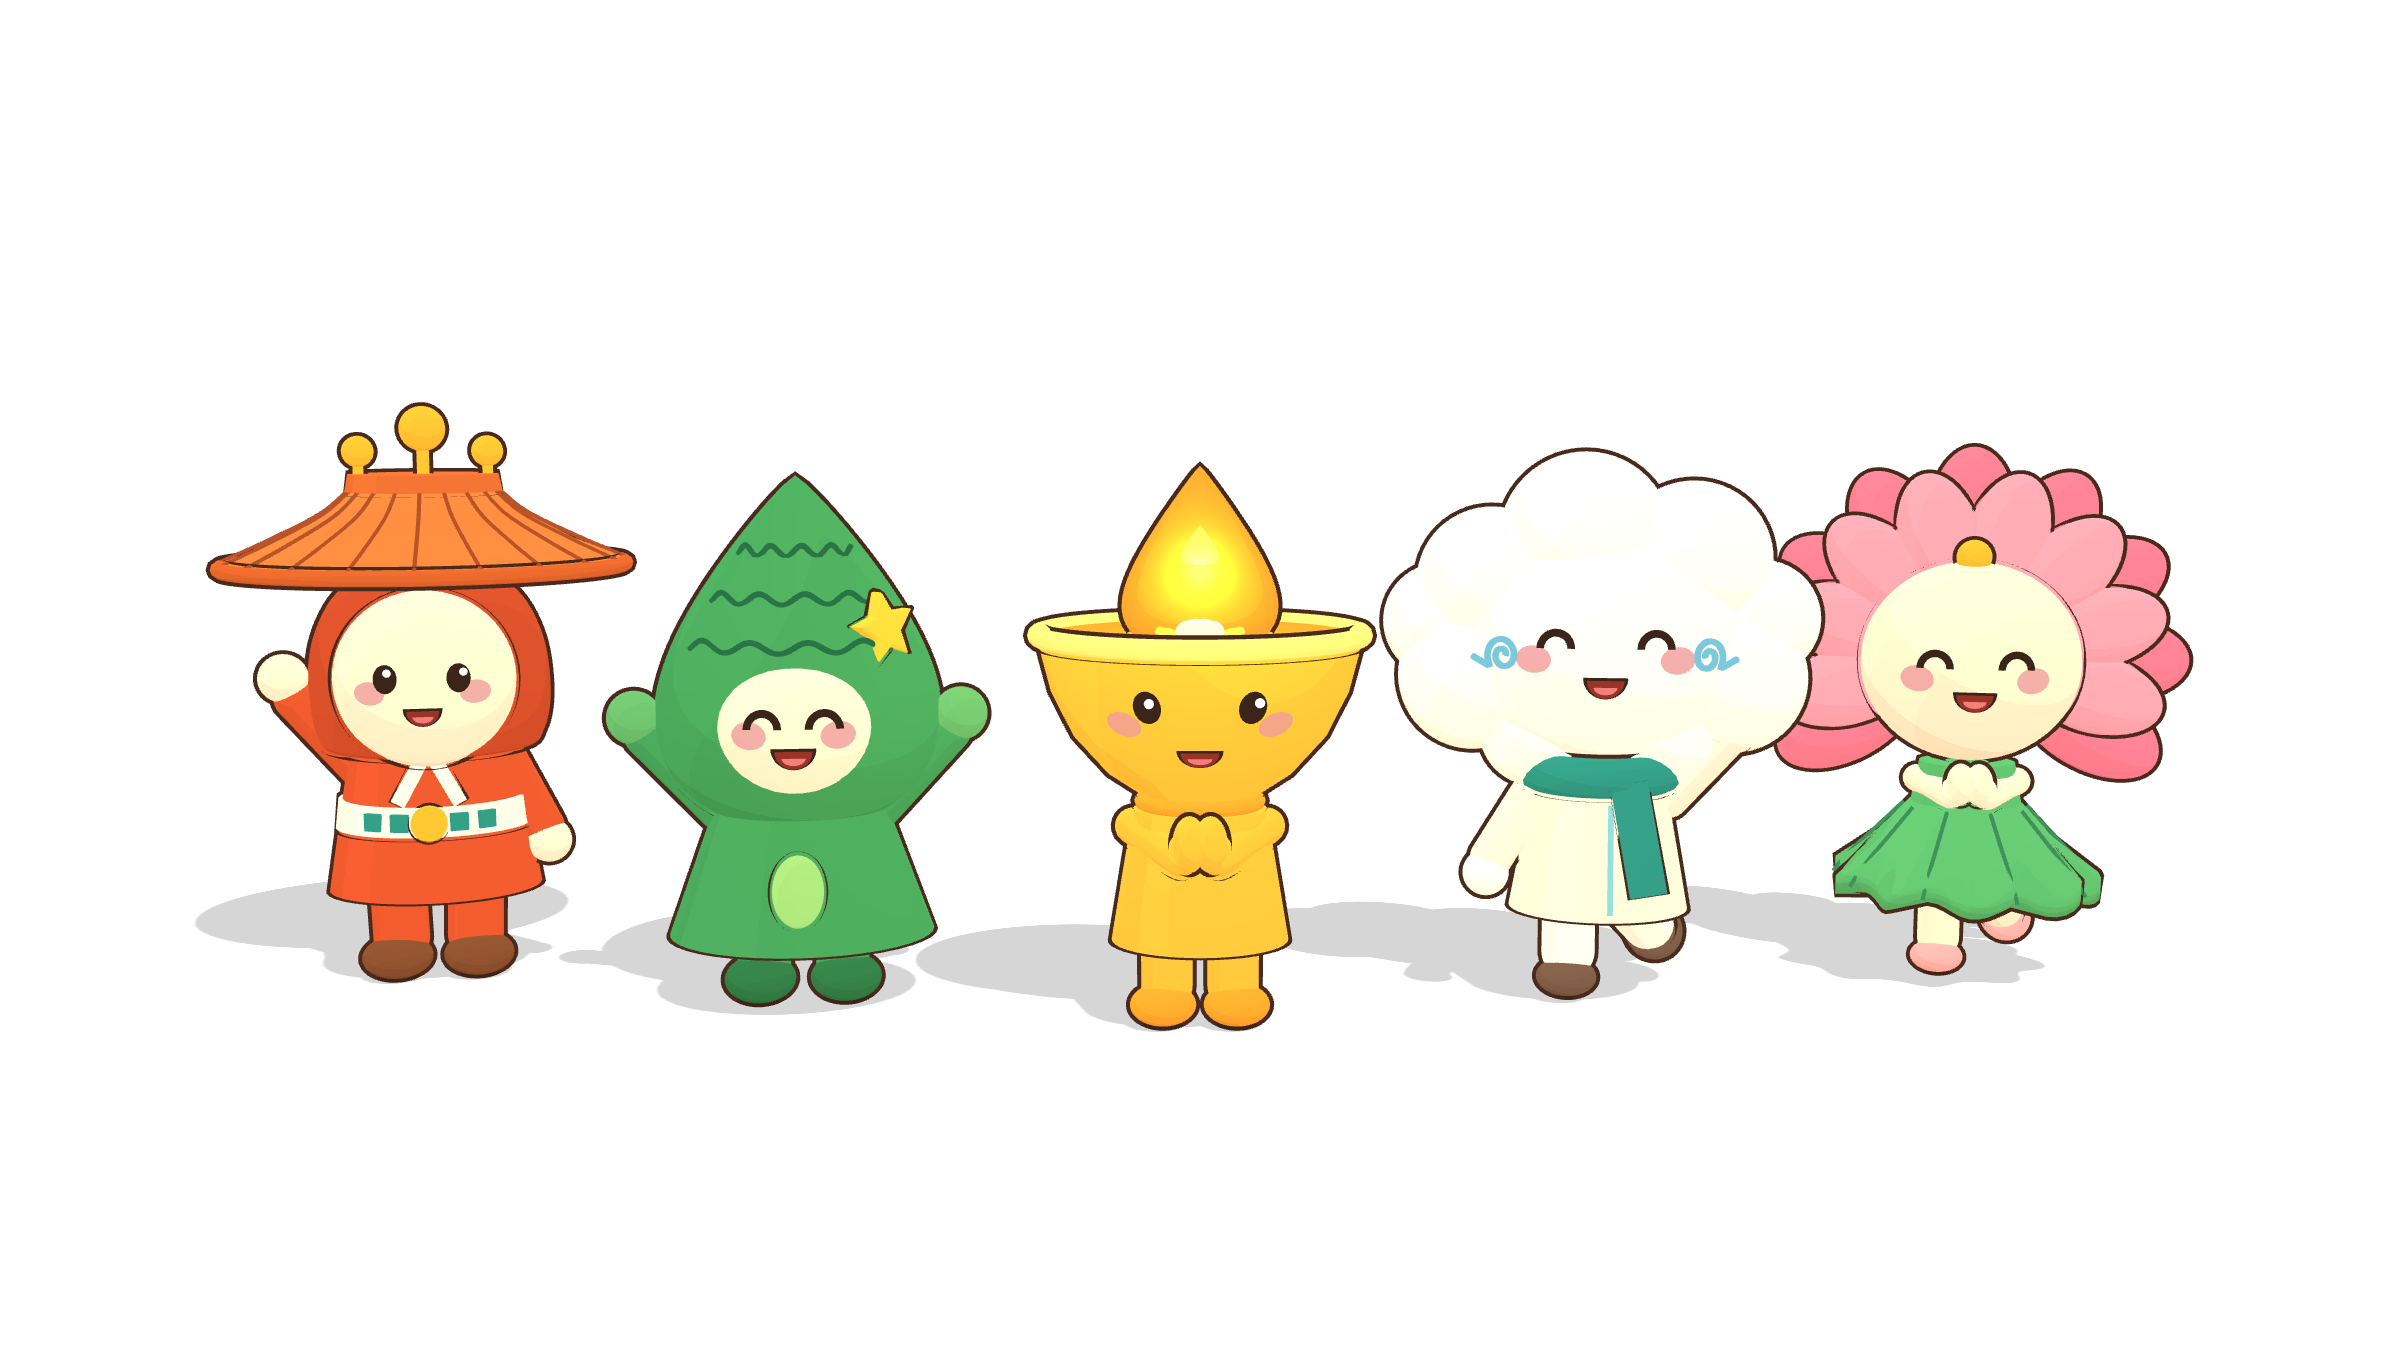
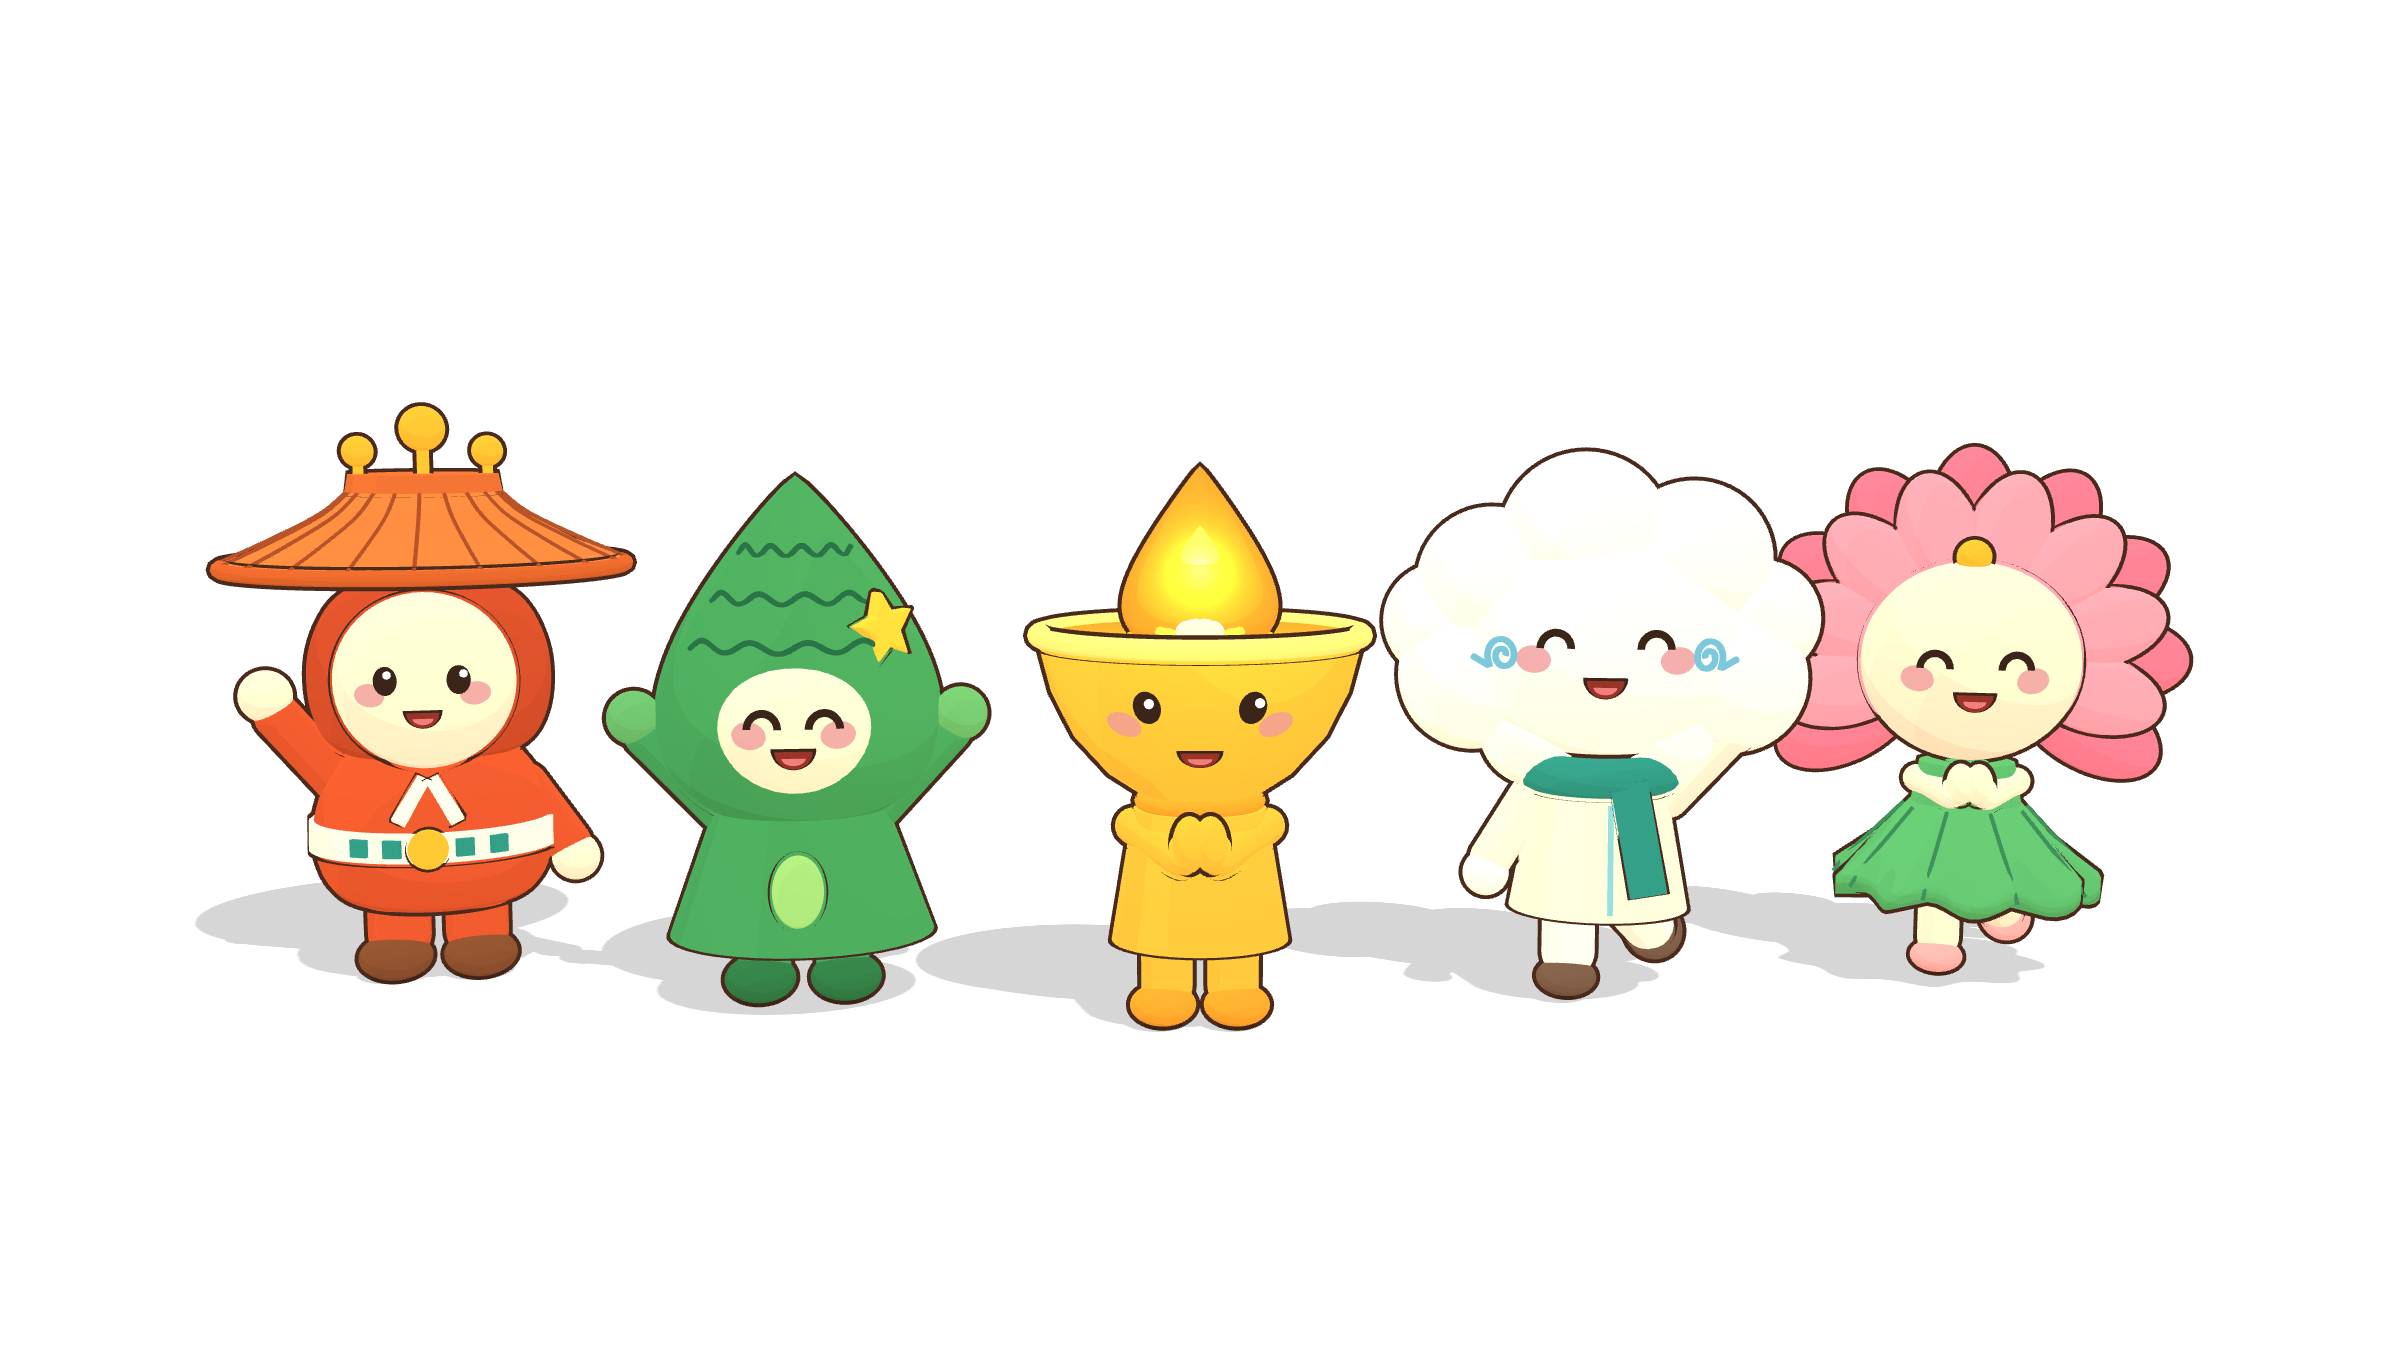
全全 3D 身體改圓滾滾，頭罩下緣內收，頭身接合更自然

Changed region(s): [[0.0938, 0.4356, 0.25, 0.7156]]

diff --git a/mascots3d.js b/mascots3d.js
@@ -148,35 +148,49 @@ function quanquan() {
   const RED = '#cf532e', HOOD = '#bd4a2b', ROOF = '#e27b3d', GOLD = '#f3b634', FACE = '#fde8d2',
     WHITE = '#fbf4e8', TEAL = '#2b9186', SHOE = '#7b4a2f';
 
+  // 短短圓圓的腿
   for (const s of [-1, 1]) {
-    limb(g, [s * 0.21, 0.22, 0], [s * 0.22, 0.52, 0], 0.16, RED);
-    part(S(0.2), SHOE, { parent: g, pos: [s * 0.23, 0.12, 0.08], scale: [1, 0.6, 1.35] });
+    limb(g, [s * 0.22, 0.24, 0], [s * 0.22, 0.46, 0], 0.18, RED);
+    part(S(0.21), SHOE, { parent: g, pos: [s * 0.24, 0.12, 0.08], scale: [1, 0.62, 1.3] });
   }
-  part(cyl(0.46, 0.6, 0.85), RED, { parent: g, pos: [0, 0.95, 0] });
-  part(cyl(0.535, 0.555, 0.17), WHITE, { parent: g, pos: [0, 0.98, 0] });
+  // 圓滾滾的身體：肚子鼓、往上收進頭底下
+  const bodyCurve = new THREE.SplineCurve([[0, 0.42], [0.42, 0.44], [0.6, 0.56], [0.68, 0.8], [0.65, 1.04], [0.54, 1.26], [0.36, 1.42], [0, 1.48]].map(([x, y]) => V2(x, y)));
+  const bodyPts = bodyCurve.getPoints(48);
+  part(new THREE.LatheGeometry(bodyPts, 64), RED, { parent: g });
+  const bodyR = (y) => {
+    for (let i = 0; i < bodyPts.length - 1; i++) {
+      const a = bodyPts[i], b = bodyPts[i + 1];
+      if (y >= Math.min(a.y, b.y) && y <= Math.max(a.y, b.y)) return a.x + (b.x - a.x) * (y - a.y) / ((b.y - a.y) || 1);
+    }
+    return 0.6;
+  };
+  // 腰帶（貼著肚子最鼓的地方）
+  const BY = 0.86, br = bodyR(BY);
+  part(cyl(br + 0.02, br + 0.025, 0.17), WHITE, { parent: g, pos: [0, BY, 0] });
   for (const k of [-2, -1, 1, 2]) {
-    const a = k * 0.3;
+    const a = k * 0.28;
     const b = part(box(0.1, 0.1, 0.03), TEAL, { parent: g, outline: false });
-    b.position.set(Math.sin(a) * 0.553, 0.98, Math.cos(a) * 0.553);
+    b.position.set(Math.sin(a) * (br + 0.035), BY, Math.cos(a) * (br + 0.035));
     b.rotation.y = a;
   }
-  part(cyl(0.1, 0.1, 0.05), GOLD, { parent: g, pos: [0, 0.98, 0.565], rot: [Math.PI / 2, 0, 0] });
+  part(cyl(0.11, 0.11, 0.05), GOLD, { parent: g, pos: [0, BY, br + 0.045], rot: [Math.PI / 2, 0, 0] });
+  // 白色交領（順著胸口的弧度）
   for (const s of [-1, 1]) {
-    const c = part(box(0.08, 0.34, 0.04), WHITE, { parent: g });
-    c.position.set(s * 0.09, 1.23, 0.48);
-    c.rotation.set(-0.3, 0, s * 0.5);
+    const c = part(box(0.08, 0.3, 0.04), WHITE, { parent: g });
+    c.position.set(s * 0.09, 1.12, bodyR(1.12) - 0.01);
+    c.rotation.set(-0.55, 0, s * 0.5);
   }
-  // 手：一手揮手、一手自然垂下
-  limb(g, [-0.42, 1.25, 0], [-0.74, 1.66, 0.1], 0.12, RED);
-  part(S(0.14), FACE, { parent: g, pos: [-0.8, 1.78, 0.12] });
-  limb(g, [0.42, 1.25, 0], [0.62, 0.86, 0.08], 0.12, RED);
-  part(S(0.13), FACE, { parent: g, pos: [0.65, 0.78, 0.1] });
+  // 手：一手揮手、一手自然垂下（從圓肚子側邊長出來）
+  limb(g, [-0.52, 1.14, 0], [-0.84, 1.56, 0.1], 0.13, RED);
+  part(S(0.15), FACE, { parent: g, pos: [-0.9, 1.68, 0.12] });
+  limb(g, [0.52, 1.1, 0], [0.76, 0.76, 0.1], 0.13, RED);
+  part(S(0.14), FACE, { parent: g, pos: [0.8, 0.68, 0.12] });
 
-  // 頭：圓潤的紅色頭罩（鐘形，下緣略寬、無兩側鼓包），大圓臉在正面
-  const hoodCurve = new THREE.SplineCurve([[0, 0], [0.52, 0], [0.64, 0.1], [0.68, 0.34], [0.64, 0.66], [0.5, 0.92], [0.26, 1.05], [0, 1.08]].map(([x, y]) => V2(x, y)));
-  part(new THREE.LatheGeometry(hoodCurve.getPoints(48), 64), HOOD, { parent: g, pos: [0, 1.34, 0] });
+  // 頭：圓潤的紅色頭罩，下緣往內收圓，與身體自然接在一起
+  const hoodCurve = new THREE.SplineCurve([[0, 0.04], [0.34, 0.0], [0.56, 0.08], [0.67, 0.3], [0.67, 0.62], [0.54, 0.9], [0.3, 1.04], [0, 1.08]].map(([x, y]) => V2(x, y)));
+  part(new THREE.LatheGeometry(hoodCurve.getPoints(48), 64), HOOD, { parent: g, pos: [0, 1.3, 0] });
   // 臉：正圓、整個露在頭罩前方（不被頭罩切成面具形），厚度壓扁避免像口鼻
-  const fc = [0, 1.8, 0.5], fr = [0.5, 0.5, 0.3];
+  const fc = [0, 1.79, 0.5], fr = [0.5, 0.5, 0.3];
   part(S(1), FACE, { parent: g, pos: fc, scale: fr });
   face(g, ellipsoidSurf(fc, fr), { eyes: 'open', size: 0.88, spread: 0.4, eyeY: 0.06, mouthY: -0.3, blushOut: 0.2, blushY: -0.16 });
 
